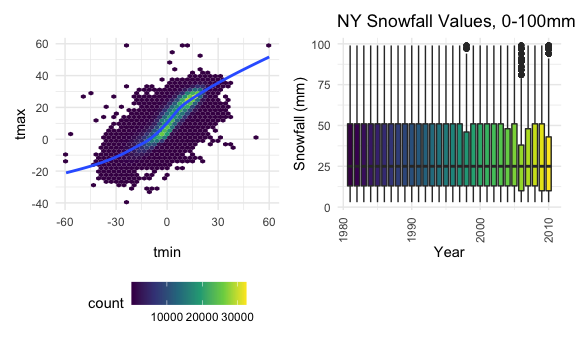
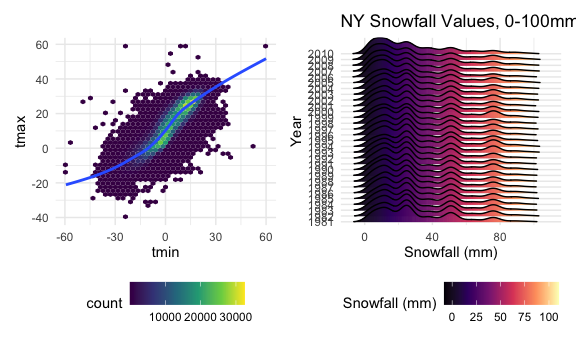
used geom_density_ridges for last part of problem 3

diff --git a/p8105_hw3_hlz2108.md b/p8105_hw3_hlz2108.md
@@ -476,21 +476,23 @@ tmax_tmin_p
 <img src="p8105_hw3_hlz2108_files/figure-gfm/tmax_tmin_plot-1.png" width="90%" />
 
 ``` r
+library(ggridges)
+
 snowfall_p = noaa_tidy %>% 
   filter(snow > 0, snow < 100) %>% 
-  ggplot(aes(x = year, y = snow, fill = factor(year))) +
-  geom_boxplot() +
+  ggplot(aes(x = snow, y = factor(year), fill = stat(x))) +
+  geom_density_ridges_gradient(scale = 3, rel_min_height = 0.01) + 
+  scale_fill_viridis_c(name = "Snowfall (mm)", option = "A") + 
   labs(
     title = "NY Snowfall Values, 0-100mm (1981-2010)",
-    x = "Year",
-    y = "Snowfall (mm)"
-  ) +
-  theme(
-    axis.text.x = element_text(angle = 90, vjust = 0.5, hjust = 1),
-    legend.position = "none")
+    x = "Snowfall (mm)",
+    y = "Year"
+  )
 
 snowfall_p
 ```
+
+    ## Picking joint bandwidth of 3.76
 
 <img src="p8105_hw3_hlz2108_files/figure-gfm/snowfall_p-1.png" width="90%" />
 
@@ -503,6 +505,8 @@ tmax_tmin_p + snowfall_p
     ## `geom_smooth()` using method = 'gam' and formula 'y ~ s(x, bs = "cs")'
 
     ## Warning: Removed 1136276 rows containing non-finite values (stat_smooth).
+
+    ## Picking joint bandwidth of 3.76
 
 <img src="p8105_hw3_hlz2108_files/figure-gfm/patchwork_p-1.png" width="90%" />
 
